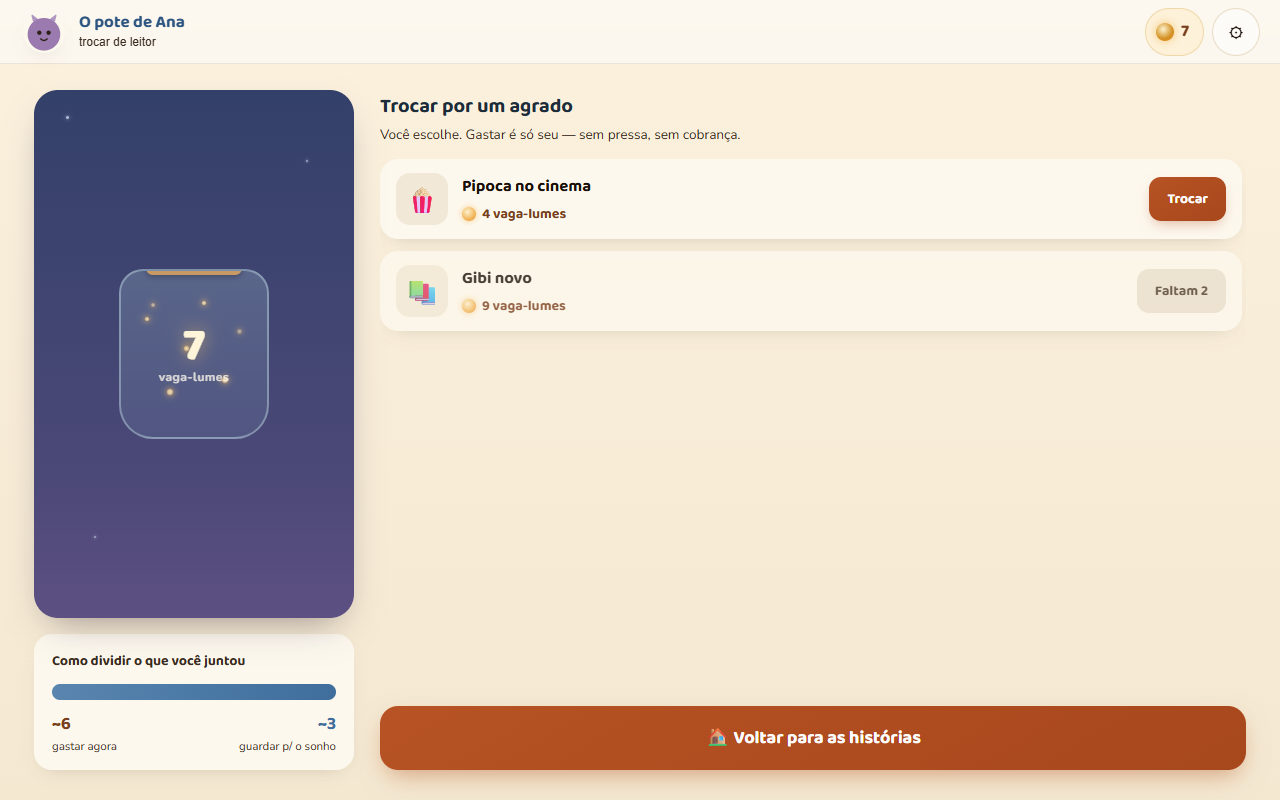
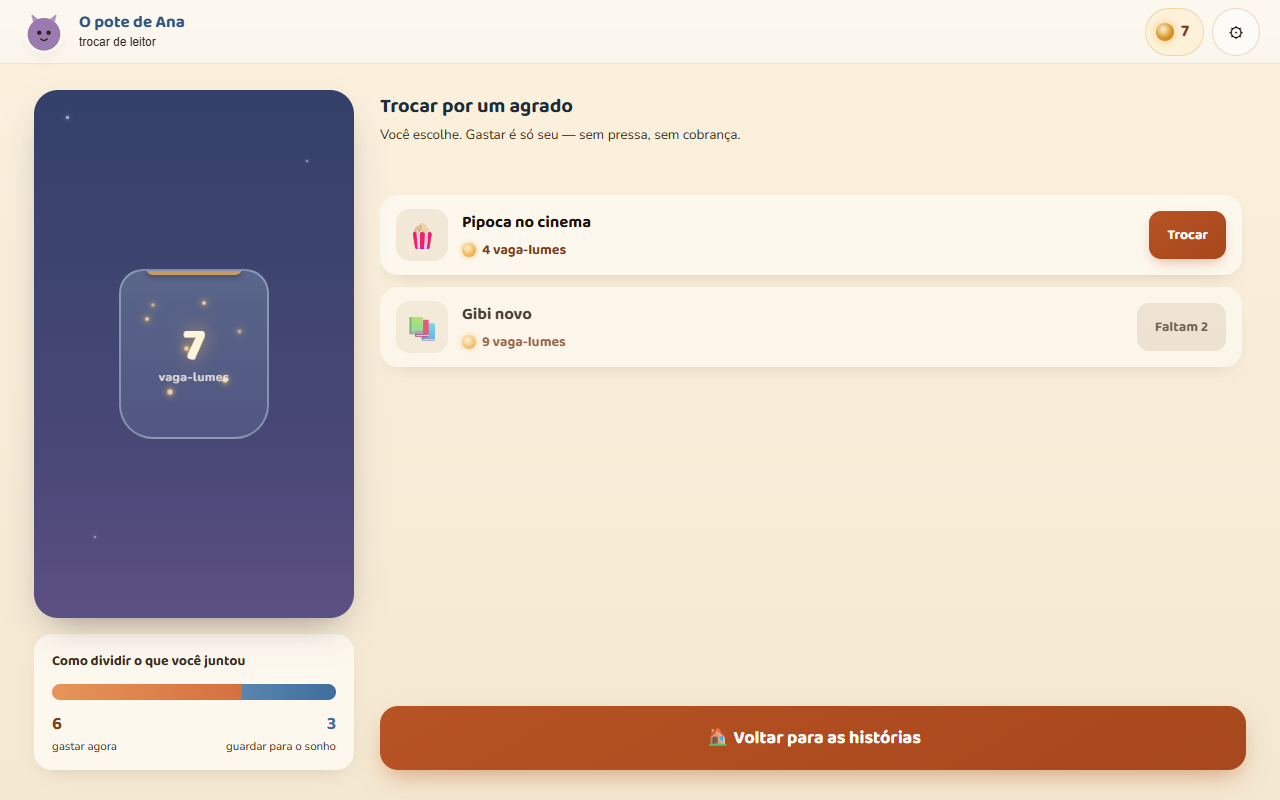
feat(t7): pote honesto — barra de duas fatias, numeros sem ~, alvos 48, resgate celebrado (B9)
- UI-C08 corrigido: o template interpolava width:{{ spendPct }}% com spendPct ja
  em '67%' (width:67%% = CSS invalido, barra 100% azul); agora o % vem uma vez so
  e a barra tem as duas fatias proporcionais, com role=img e aria-label
  ('Sugestao: gastar N agora e guardar M para o sonho').
- '~2'/'~1' viram '2'/'1' (o til lia como menos-2 em Baloo 2) e 'p/ o sonho'
  virou 'para o sonho' (UI-C09/C41).
- Botoes do cardapio com min-height 48px (UI-C19) e aria-label completos
  ('Trocar 4 vaga-lumes por X' / 'Faltam 2 vaga-lumes para Y', UI-C48).
- Resgatar e um momento (UI-C40): role=status 'Combinado! Voce trocou N
  vaga-lumes por X.', pop no cartao e no pote (calc pelo --pip-mov) e fala
  (Canon.tts). SEM registro na telemetria: nao ha evento de economia no nucleo
  e a decisao do dono e nao inventar um.
- Toque sem saldo avisa ('Faltam N ainda — continue lendo!') com sacudida e nao
  debita (UI-C39).
- Luzes/estrelas/frasco decorativos aria-hidden; numero+rotulo num unico no
  ('7 vaga-lumes no pote') (UI-C48).
- Retrato (UI-C58): abaixo de 700px o cardapio empilha sob o pote (helmet CSS
  com media query; classes pip-t7-*).
- sondar-a11y: +8 asserts (fatias, sem ~, 48px, aria-labels, retrato, sem saldo,
  resgate) + 2 PNGs em screenshots/B9-pote. MARCADOR 'dividir o que voce' mantido.
- Verificado: sonda a11y 47, linha-verde 91, geracao2 48.

diff --git a/src/telas/Tela7PoteCardapio.dc.html b/src/telas/Tela7PoteCardapio.dc.html
@@ -11,6 +11,20 @@
   <style>
     @keyframes pipLuzGlow { 0%,100%{opacity:.55;transform:scale(.9)} 50%{opacity:1;transform:scale(1.15)} }
     .pip-luz { animation: pipLuzGlow 2.4s ease-in-out infinite; }
+    /* B9: celebração ao resgatar e sacudida sem saldo — ambas pelo token de movimento. */
+    @keyframes pipComemora { 0%{transform:scale(1)} 35%{transform:scale(1.06)} 100%{transform:scale(1)} }
+    .pip-comemora { animation: pipComemora calc(.5s * var(--pip-mov)) ease; }
+    @keyframes pipSacode { 0%,100%{transform:translateX(0)} 25%{transform:translateX(-6px)} 75%{transform:translateX(6px)} }
+    .pip-sacode { animation: pipSacode calc(.3s * var(--pip-mov)) ease; }
+    /* B9 (UI-C58): retrato — o cardápio empilha abaixo do pote em telas estreitas. */
+    .pip-t7-conteudo { flex:1; min-height:0; display:flex; gap:26px; padding:26px 34px 30px; }
+    .pip-t7-pote { width:320px; flex-shrink:0; display:flex; flex-direction:column; gap:16px; }
+    .pip-t7-pote-visual { flex:1; min-height:220px; }
+    @media (max-width: 700px) {
+      .pip-t7-conteudo { flex-direction:column; overflow-y:auto; padding:16px 16px 24px; }
+      .pip-t7-pote { width:100%; }
+      .pip-t7-pote-visual { flex:none; height:240px; }
+    }
   </style>
 </helmet>
 
@@ -20,43 +34,44 @@
        trocar de leitor, B5), saldo (só leitura: já estamos no pote), ⚙. -->
   <dc-import name="BarraCrianca" mostrarAvatar="{{ true }}" avatarRef="{{ childAvatarRef }}" saudacao="{{ tituloPote }}" subtitulo="trocar de leitor" trocarLeitor="{{ trocarLeitor }}" mostrarSaldo="{{ true }}" vagalumes="{{ vagalumes }}" abrirAjustes="{{ abrirAjustesA11y }}"></dc-import>
 
-  <!-- Conteúdo -->
-  <div style="flex:1;min-height:0;display:flex;gap:26px;padding:26px 34px 30px;">
+  <!-- Conteúdo (B9: empilha em retrato) -->
+  <div class="pip-t7-conteudo">
 
     <!-- Esquerda: pote -->
-    <div style="width:320px;flex-shrink:0;display:flex;flex-direction:column;gap:16px;">
+    <div class="pip-t7-pote {{ poteClass }}">
       <!-- Pote visual -->
-      <div style="flex:1;border-radius:24px;background:linear-gradient(180deg,#33406a,#4a4878 70%,#5e5183);position:relative;overflow:hidden;display:flex;flex-direction:column;align-items:center;justify-content:center;box-shadow:0 16px 36px -16px rgba(40,30,50,.5);">
+      <div class="pip-t7-pote-visual" style="border-radius:24px;background:linear-gradient(180deg,#33406a,#4a4878 70%,#5e5183);position:relative;overflow:hidden;display:flex;flex-direction:column;align-items:center;justify-content:center;box-shadow:0 16px 36px -16px rgba(40,30,50,.5);">
         <!-- estrelas pálidas do céu — nada âmbar fora do frasco, para não parecer vaga-lume solto -->
-        <div style="position:absolute;top:26px;left:32px;width:3px;height:3px;border-radius:50%;background:rgba(225,235,255,.7);box-shadow:0 0 4px 1px rgba(220,230,255,.35);"></div>
-        <div style="position:absolute;top:70px;right:46px;width:2px;height:2px;border-radius:50%;background:rgba(225,235,255,.6);box-shadow:0 0 3px 1px rgba(220,230,255,.3);"></div>
-        <div style="position:absolute;bottom:80px;left:60px;width:2px;height:2px;border-radius:50%;background:rgba(225,235,255,.55);box-shadow:0 0 3px 1px rgba(220,230,255,.28);"></div>
+        <div aria-hidden="true" style="position:absolute;top:26px;left:32px;width:3px;height:3px;border-radius:50%;background:rgba(225,235,255,.7);box-shadow:0 0 4px 1px rgba(220,230,255,.35);"></div>
+        <div aria-hidden="true" style="position:absolute;top:70px;right:46px;width:2px;height:2px;border-radius:50%;background:rgba(225,235,255,.6);box-shadow:0 0 3px 1px rgba(220,230,255,.3);"></div>
+        <div aria-hidden="true" style="position:absolute;bottom:80px;left:60px;width:2px;height:2px;border-radius:50%;background:rgba(225,235,255,.55);box-shadow:0 0 3px 1px rgba(220,230,255,.28);"></div>
         <!-- frasco -->
         <div style="width:150px;height:170px;border-radius:24px 24px 34px 34px;background:linear-gradient(180deg,rgba(190,225,232,.22),rgba(150,200,212,.12));border:2px solid rgba(207,234,240,.4);position:relative;display:flex;align-items:center;justify-content:center;overflow:hidden;">
-          <div style="position:absolute;top:-14px;width:96px;height:18px;border-radius:7px;background:#c89a64;box-shadow:0 2px 6px rgba(0,0,0,.25);z-index:3;"></div>
-          <!-- luzes: 1 vaga-lume aceso por unidade, até um teto visual; acima, intensifica -->
-          <div style="position:absolute;inset:0;z-index:1;pointer-events:none;">
+          <div aria-hidden="true" style="position:absolute;top:-14px;width:96px;height:18px;border-radius:7px;background:#c89a64;box-shadow:0 2px 6px rgba(0,0,0,.25);z-index:3;"></div>
+          <!-- luzes: 1 vaga-lume aceso por unidade, até um teto visual; acima, intensifica (decorativo — B9) -->
+          <div aria-hidden="true" style="position:absolute;inset:0;z-index:1;pointer-events:none;">
             <sc-for list="{{ luzes }}" as="lz" hint-placeholder-count="3">
               <div class="pip-luz-dot {{ lz.cls }}" style="{{ lz.style }}"></div>
             </sc-for>
           </div>
-          <div style="text-align:center;position:relative;z-index:2;">
-            <div style="font-family:'Baloo 2',cursive;font-weight:800;font-size:46px;color:#fff6da;text-shadow:0 0 18px rgba(247,191,96,.6);line-height:1;">{{ vagalumes }}</div>
-            <div style="font-size:12px;color:rgba(255,250,238,.8);font-weight:700;letter-spacing:.5px;">vaga-lumes</div>
+          <!-- número + rótulo num único nó para o leitor de tela ("7 vaga-lumes") -->
+          <div aria-label="{{ vagalumes }} vaga-lumes no pote" style="text-align:center;position:relative;z-index:2;">
+            <div aria-hidden="true" style="font-family:'Baloo 2',cursive;font-weight:800;font-size:46px;color:#fff6da;text-shadow:0 0 18px rgba(247,191,96,.6);line-height:1;">{{ vagalumes }}</div>
+            <div aria-hidden="true" style="font-size:12px;color:rgba(255,250,238,.8);font-weight:700;letter-spacing:.5px;">vaga-lumes</div>
           </div>
         </div>
       </div>
 
-      <!-- Sugestão 2/3 · 1/3 -->
+      <!-- Sugestão 2/3 · 1/3 (B9: barra com duas fatias de verdade; números sem "~"/"p/") -->
       <div style="background:var(--pip-superficie);border-radius:18px;padding:16px 18px;box-shadow:0 8px 20px -12px rgba(74,59,44,.28);">
         <div style="font-family:'Baloo 2',cursive;font-weight:700;font-size:14px;color:#6a5946;">Como dividir o que você juntou</div>
-        <div style="display:flex;height:16px;border-radius:8px;overflow:hidden;margin-top:12px;">
-          <div style="width:{{ spendPct }}%;background:linear-gradient(90deg,#e8965a,#d5713f);"></div>
+        <div role="img" aria-label="{{ dividirAria }}" style="display:flex;height:16px;border-radius:8px;overflow:hidden;margin-top:12px;">
+          <div style="width:{{ spendPct }};background:linear-gradient(90deg,#e8965a,#d5713f);"></div>
           <div style="flex:1;background:linear-gradient(90deg,#5a86b0,#3f6f9e);"></div>
         </div>
         <div style="display:flex;justify-content:space-between;margin-top:10px;">
-          <div><div style="font-family:'Baloo 2',cursive;font-weight:700;font-size:18px;color:var(--pip-terracota-texto);">~{{ spendSuggest }}</div><div style="font-size:11.5px;color:var(--pip-texto-suave);">gastar agora</div></div>
-          <div style="text-align:right;"><div style="font-family:'Baloo 2',cursive;font-weight:700;font-size:18px;color:#3f6f9e;">~{{ saveSuggest }}</div><div style="font-size:11.5px;color:var(--pip-texto-suave);">guardar p/ o sonho</div></div>
+          <div><div style="font-family:'Baloo 2',cursive;font-weight:700;font-size:18px;color:var(--pip-terracota-texto);">{{ spendSuggest }}</div><div style="font-size:11.5px;color:var(--pip-texto-suave);">gastar agora</div></div>
+          <div style="text-align:right;"><div style="font-family:'Baloo 2',cursive;font-weight:700;font-size:18px;color:#3f6f9e;">{{ saveSuggest }}</div><div style="font-size:11.5px;color:var(--pip-texto-suave);">guardar para o sonho</div></div>
         </div>
       </div>
     </div>
@@ -68,19 +83,22 @@
         <div style="font-size:var(--pip-fs-2);line-height:var(--pip-lh-texto);color:var(--pip-texto-suave);margin-top:3px;">Você escolhe. Gastar é só seu — sem pressa, sem cobrança.</div>
       </div>
 
+      <!-- B9: resgatar é um momento (celebração) e toque sem saldo avisa — visível + anunciado. -->
+      <div role="status" aria-live="polite" style="min-height:22px;font-family:var(--pip-fonte-texto);font-weight:700;font-size:var(--pip-fs-3);color:var(--pip-terracota-texto);">{{ aviso }}</div>
+
       <!-- Cardápio configurável pode ter 6+ itens: a lista rola; as ações ficam fixas embaixo. -->
       <div style="flex:1;min-height:0;overflow-y:auto;display:flex;flex-direction:column;gap:12px;padding-right:4px;">
         <sc-for list="{{ rewardMenu }}" as="rw" hint-placeholder-count="3">
-          <div style="{{ rw.cardStyle }}">
-            <div style="width:52px;height:52px;flex-shrink:0;border-radius:14px;background:#f3ead8;display:flex;align-items:center;justify-content:center;font-size:26px;">{{ rw.icon }}</div>
+          <div class="{{ rw.cardClass }}" style="{{ rw.cardStyle }}">
+            <div aria-hidden="true" style="width:52px;height:52px;flex-shrink:0;border-radius:14px;background:#f3ead8;display:flex;align-items:center;justify-content:center;font-size:26px;">{{ rw.icon }}</div>
             <div style="flex:1;min-width:0;">
               <div style="font-family:'Baloo 2',cursive;font-weight:700;font-size:16.5px;color:#3a2c20;">{{ rw.label }}</div>
               <div style="display:flex;align-items:center;gap:6px;margin-top:3px;">
-                <div style="width:14px;height:14px;border-radius:50%;background:radial-gradient(circle at 40% 35%,#fff3cf,#f4b65a 60%,#e89132);box-shadow:0 0 6px 1px rgba(247,191,96,.6);"></div>
+                <div aria-hidden="true" style="width:14px;height:14px;border-radius:50%;background:radial-gradient(circle at 40% 35%,#fff3cf,#f4b65a 60%,#e89132);box-shadow:0 0 6px 1px rgba(247,191,96,.6);"></div>
                 <span style="font-family:'Baloo 2',cursive;font-weight:700;font-size:14px;color:var(--pip-terracota-texto);">{{ rw.cost }} vaga-lumes</span>
               </div>
             </div>
-            <button onClick="{{ rw.redeem }}" style="{{ rw.btnStyle }}">{{ rw.btnLabel }}</button>
+            <button onClick="{{ rw.redeem }}" aria-label="{{ rw.btnAria }}" aria-disabled="{{ rw.inerte }}" style="{{ rw.btnStyle }}">{{ rw.btnLabel }}</button>
           </div>
         </sc-for>
       </div>
@@ -98,11 +116,48 @@
 </x-dc>
 <script type="text/x-dc" data-dc-script>
 class Component extends DCLogic {
-  state = {};
+  state = { aviso: '', comemoraId: null, sacodeId: null, poteComemora: false };
 
   _inject(el, html) { if (el && el._k !== html) { el.innerHTML = html; el._k = html; } }
 
   _getApp() { return window.PipocaApp; }
+
+  // ── B9 · feedback: resgatar é um momento; toque sem saldo avisa (nunca em silêncio) ──
+  _falar(texto) {
+    try {
+      const C = window.PipocaCanonico;
+      if (C && C.tts && typeof C.tts.falar === 'function') { C.tts.falar(texto, { lang: 'pt-BR', rate: 0.9 }); return; }
+      if (window.speechSynthesis && window.SpeechSynthesisUtterance) {
+        const u = new window.SpeechSynthesisUtterance(texto); u.lang = 'pt-BR'; u.rate = 0.9;
+        window.speechSynthesis.cancel(); window.speechSynthesis.speak(u);
+      }
+    } catch (_) {}
+  }
+  _limparAnim() {
+    if (this._animTimer) clearTimeout(this._animTimer);
+    this._animTimer = setTimeout(() => { this.setState({ comemoraId: null, sacodeId: null, poteComemora: false }); }, 600);
+  }
+  _resgatar(item) {
+    const App = this._getApp();
+    if (!App) return;
+    const ec = App.estado.economia || { vagalumes: 0, poupado: 0 };
+    if (ec.vagalumes < item.cost) {
+      // Sem saldo: feedback honesto, sem culpa — e sacudida leve no cartão.
+      const faltam = item.cost - ec.vagalumes;
+      const texto = 'Faltam ' + faltam + ' ainda — continue lendo!';
+      this.setState({ aviso: texto, sacodeId: item.id, comemoraId: null });
+      this._falar(texto);
+      this._limparAnim();
+      return;
+    }
+    App.setState({ economia: { ...ec, vagalumes: Math.max(0, ec.vagalumes - item.cost) } });
+    // Celebração (decisão do dono: "Combinado! …"); sem registro na telemetria — não há
+    // evento de economia no núcleo (telemetria.ts) e a regra é não inventar um.
+    const texto = 'Combinado! Você trocou ' + item.cost + ' vaga-lumes por ' + item.label + '.';
+    this.setState({ aviso: texto, comemoraId: item.id, sacodeId: null, poteComemora: true });
+    this._falar(texto);
+    this._limparAnim();
+  }
 
   _avatarSVG(d) {
     if (!d) return '';
@@ -226,19 +281,18 @@ class Component extends DCLogic {
         ];
     const rewardMenu = itens.map(m => {
       const aff = vagalumes >= m.cost;
+      const faltam = m.cost - vagalumes;
       return {
         label: m.label, icon: m.icon, cost: m.cost,
-        redeem: aff ? (() => {
-          const App2 = this._getApp();
-          if (App2) {
-            const ec = App2.estado.economia;
-            App2.setState({ economia: { ...ec, vagalumes: Math.max(0, ec.vagalumes - m.cost) } });
-            this.setState({});
-          }
-        }) : (() => {}),
-        btnLabel: aff ? 'Trocar' : 'Faltam ' + (m.cost - vagalumes),
-        btnStyle: 'border:none;border-radius:12px;padding:11px 18px;white-space:nowrap;font-family:"Baloo 2",cursive;font-weight:700;font-size:14px;cursor:'+(aff?'pointer':'not-allowed')+';'
+        // B9: o mesmo handler para os dois casos — sem saldo AVISA (nunca engole o toque).
+        redeem: () => this._resgatar(m),
+        inerte: !aff,
+        btnLabel: aff ? 'Trocar' : 'Faltam ' + faltam,
+        btnAria: aff ? ('Trocar ' + m.cost + ' vaga-lumes por ' + m.label) : ('Faltam ' + faltam + ' vaga-lumes para ' + m.label),
+        // B9 (UI-C19): alvo ≥48px.
+        btnStyle: 'border:none;border-radius:12px;min-height:48px;padding:0 18px;white-space:nowrap;font-family:"Baloo 2",cursive;font-weight:700;font-size:14px;cursor:'+(aff?'pointer':'not-allowed')+';'
           +(aff?'background:var(--pip-cta);color:#fff;box-shadow:0 6px 14px -5px rgba(181,86,40,.5);':'background:#ece2cf;color:#a8997e;'),
+        cardClass: this.state.comemoraId === m.id ? 'pip-comemora' : (this.state.sacodeId === m.id ? 'pip-sacode' : ''),
         cardStyle: 'display:flex;align-items:center;gap:14px;background:var(--pip-superficie);border-radius:18px;padding:14px 16px;box-shadow:0 8px 20px -12px rgba(74,59,44,.3);'+(aff?'':'opacity:.78;'),
       };
     });
@@ -262,7 +316,11 @@ class Component extends DCLogic {
       childAvatarRef: (el) => { this._childAvatarEl = el; this._updateAvatar(); },
       spendSuggest: spend,
       saveSuggest: save,
+      // B9 (UI-C08): o template interpola width:{{ spendPct }} — o "%" vem daqui, uma vez só.
       spendPct: pct + '%',
+      dividirAria: 'Sugestão: gastar ' + spend + ' agora e guardar ' + save + ' para o sonho',
+      aviso: this.state.aviso || '',
+      poteClass: this.state.poteComemora ? 'pip-comemora' : '',
       rewardMenu,
       acaoPrimaria: emCurso ? (() => this.continuar()) : (() => this.brincarDeNovo()),
       // Fim da história (ou sem história em curso): o caminho claro é voltar à casinha (T3).
